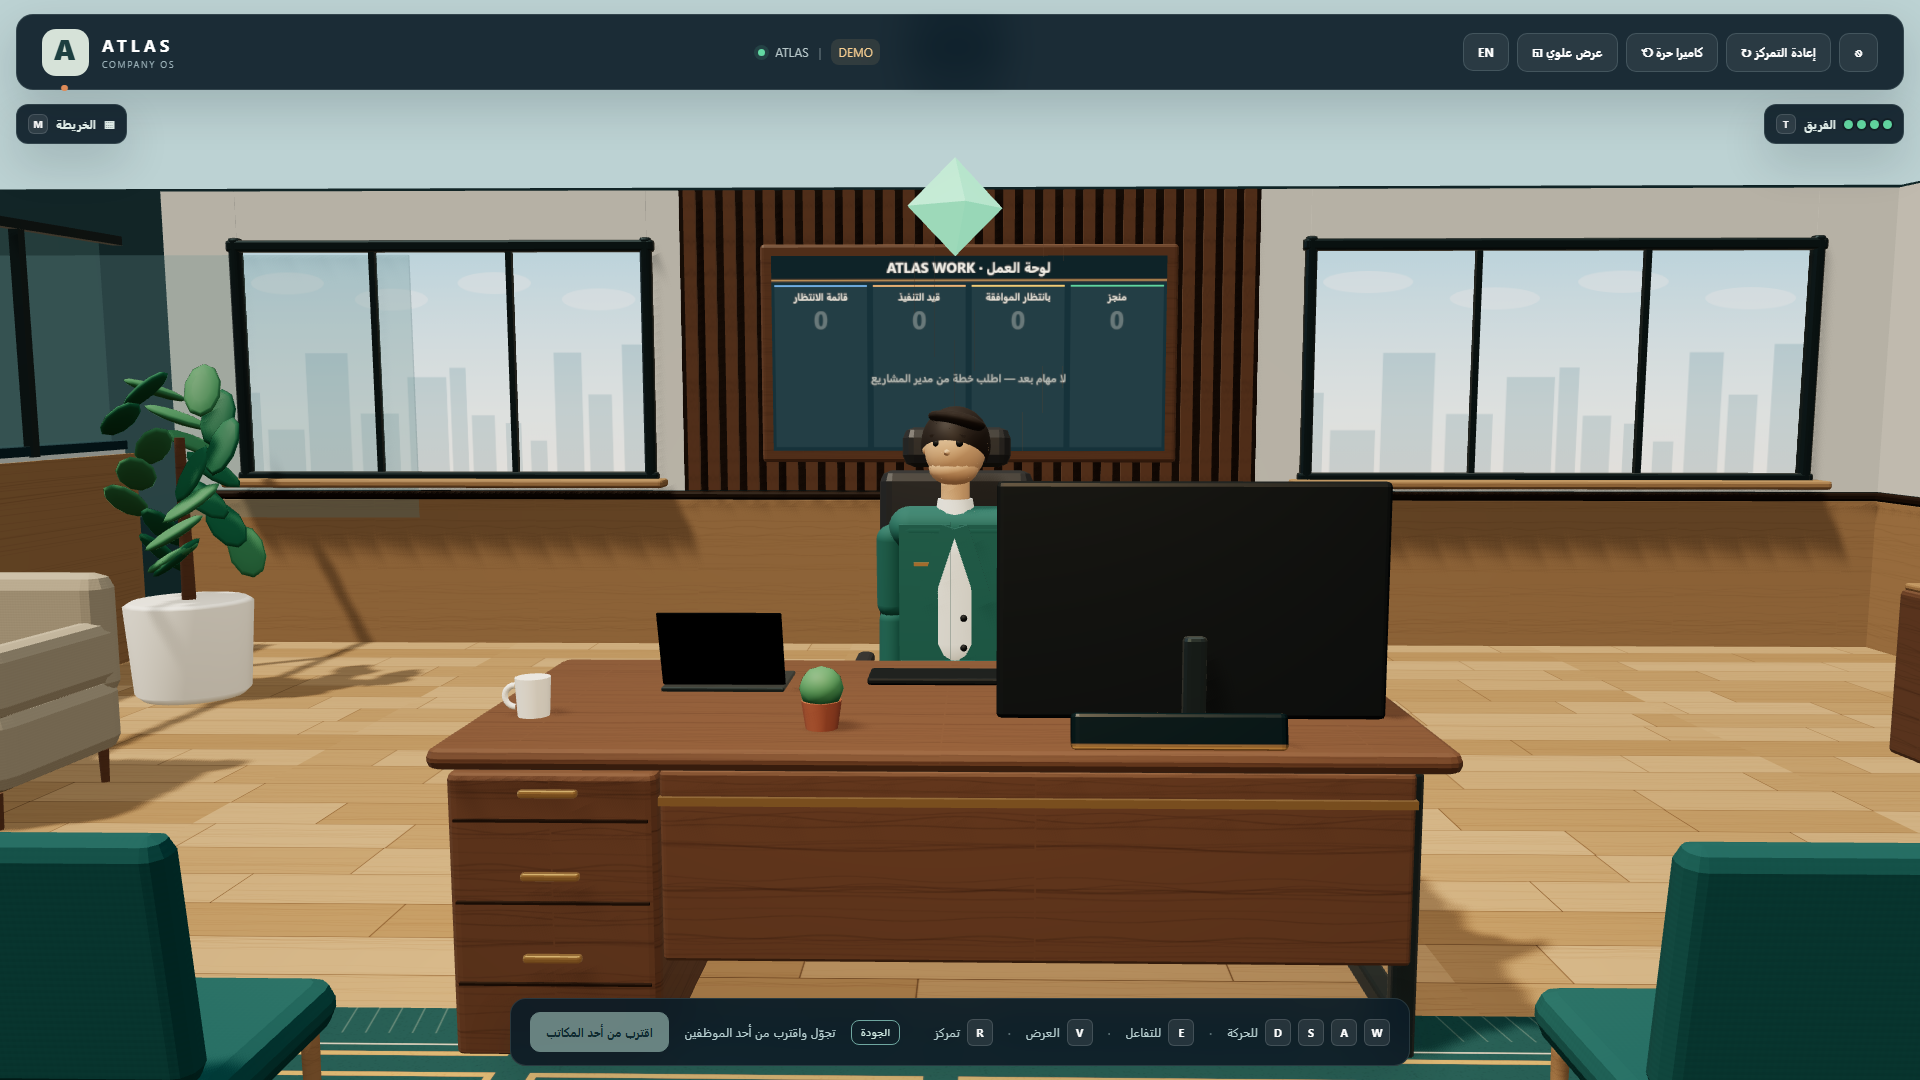
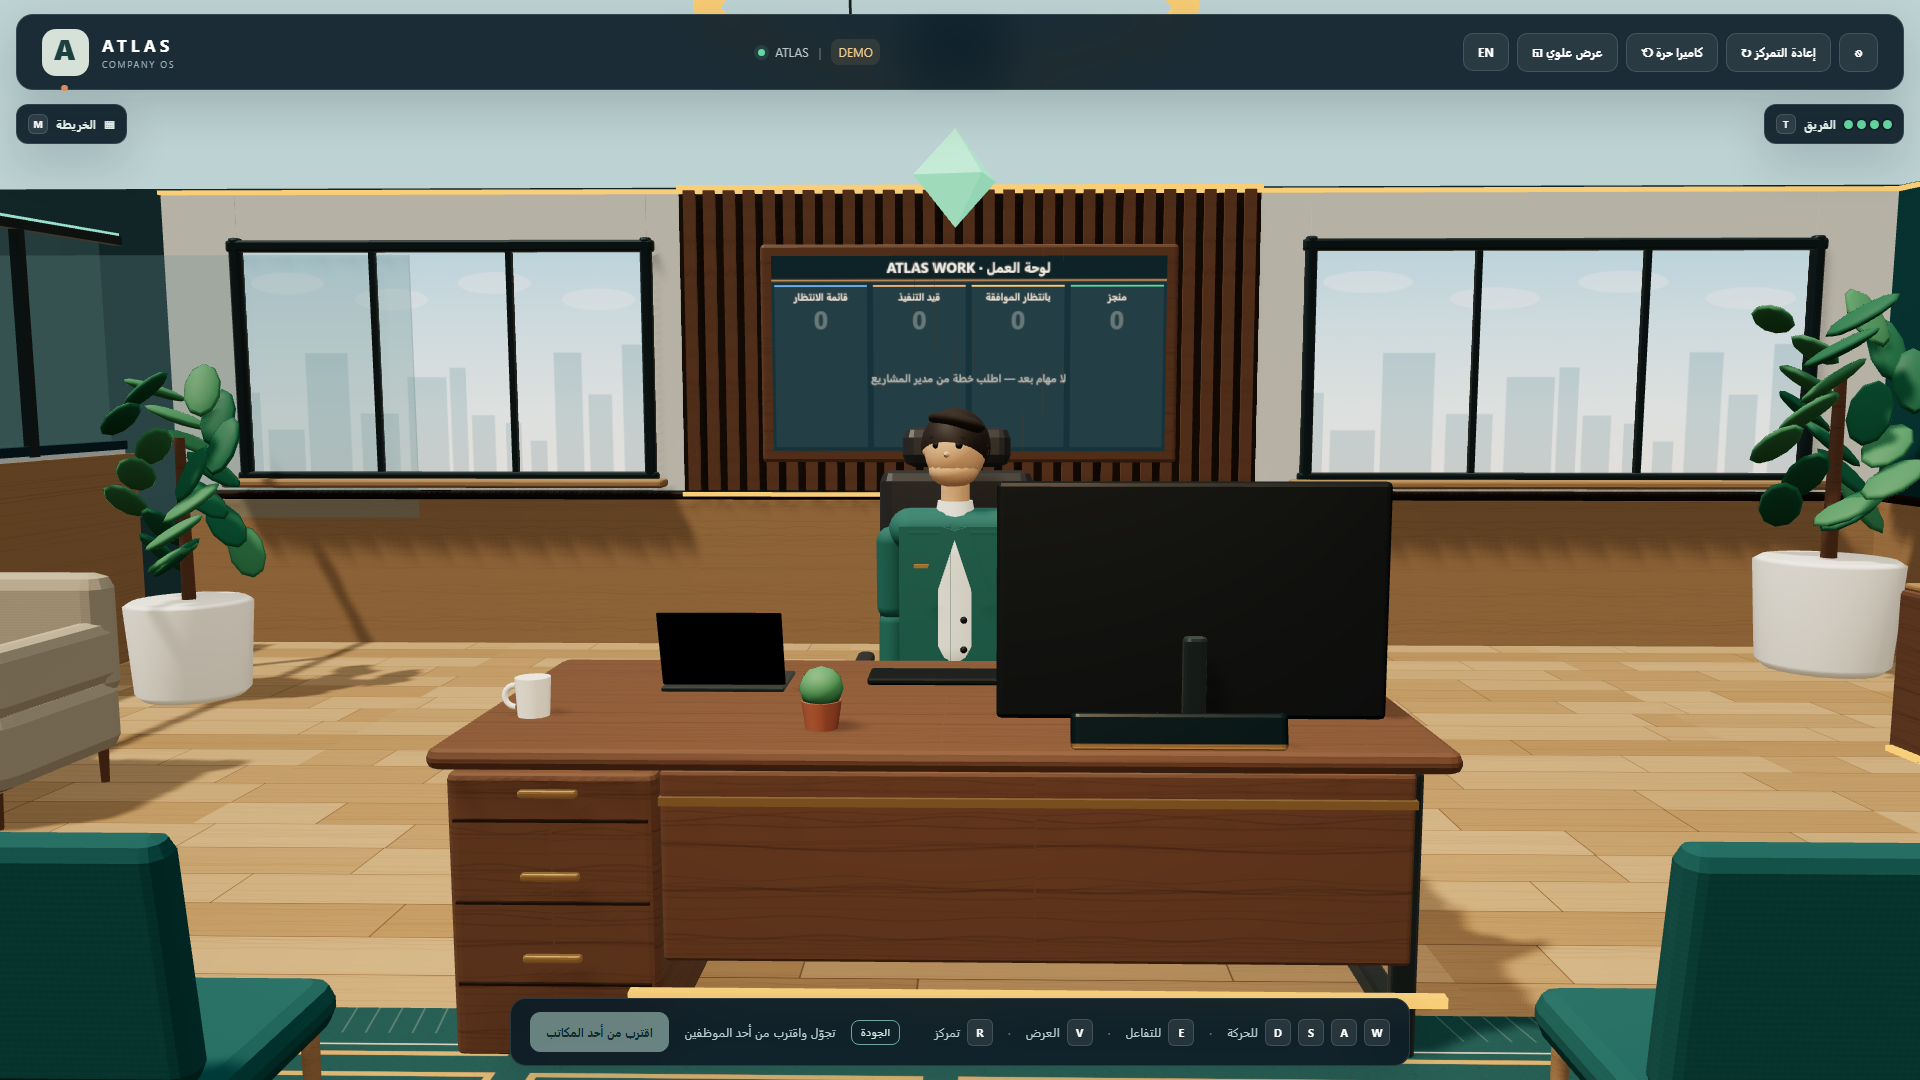
COS-109: add the five concept renders and move the slice toward concepts 01/04
- docs/design/concepts/: the CEO's five ATLAS-Visual-Blueprint renders (target
  art, not screenshots) with a README
- Warm amber LED cove strips, mint partition accents, ring pendant over the
  desk, teal accent wall, tall corner plant with its own collider (all emissive:
  no extra per-pixel lights)
- REPORT: concept comparison with an honest gap list; captures and headless
  FPS re-measured

diff --git a/public/js/world/office-pm.js b/public/js/world/office-pm.js
@@ -140,6 +140,10 @@ export function buildPmOffice(THREE, {envMap = null} = {}) {
     walnut: std('walnut', {color: tex.walnut ? '#ffffff' : PAL.walnut, map: tex.walnut, roughness: .45, envMapIntensity: .55}),
     oak: std('oak', {color: tex.oak ? '#ffffff' : PAL.oak, map: tex.oak, roughness: .55}),
     cream: std('cream', {color: PAL.cream, roughness: .9, envMapIntensity: .25}),
+    teal: std('teal', {color: PAL.teal, roughness: .85}),
+    // concepts 01/04: warm LED cove strips and mint accents. Emissive only: no per-pixel light cost.
+    led: mat('led', () => new THREE.MeshStandardMaterial({color: '#7a4a18', emissive: '#ff9a3c', emissiveIntensity: 1.5, roughness: .6})),
+    ledMint: mat('ledMint', () => new THREE.MeshStandardMaterial({color: '#1e5557', emissive: '#3fcfa9', emissiveIntensity: 1.3, roughness: .6})),
     trim: std('trim', {color: '#3a2a1e', roughness: .5}),
     metal: std('metal', {color: PAL.metal, roughness: .32, metalness: .75}),
     brass: std('brass', {color: PAL.brass, roughness: .28, metalness: .9, envMapIntensity: 1}),
@@ -219,7 +223,7 @@ export function buildPmOffice(THREE, {envMap = null} = {}) {
   const ex = x1 - .02;
   add(staticRoot, rbox(.04, .92, D, .01), M.oak, ex, .46, cz, {cast: false});
   add(staticRoot, rbox(.07, .05, D, .015), M.trim, ex - .01, .94, cz);
-  add(staticRoot, box(.03, 1.81, D), M.cream, ex, 1.875, cz, {cast: false});
+  add(staticRoot, box(.03, 1.81, D), M.teal, ex, 1.875, cz, {cast: false}); // teal accent wall (concepts 01/04)
   // glass partitions (west and south): slim mullions, top rail, and an oak skin on the lower wall
   for (const zz of [-15.2, -13.2, -11.2, -9.2]) add(staticRoot, box(.05, 1.2, .05), M.glassFrame, 12.1, 1.84, zz);
   add(staticRoot, box(.06, .05, 9), M.glassFrame, 12.1, 2.44, -11.55);
@@ -327,8 +331,8 @@ export function buildPmOffice(THREE, {envMap = null} = {}) {
   add(staticRoot, cyl(.2, .2, .04, 32), M.trim, ex - .04, 2.25, -9.2, {rz: Math.PI / 2}); add(staticRoot, cyl(.18, .18, .045, 32), M.ceramic, ex - .05, 2.25, -9.2, {rz: Math.PI / 2});
 
   // ---- plant (collider pm-plant at 13, -15) ------------------------------------------------------------------
-  {
-    const g = piece(13, -15);
+  const leafy = (x, z, id, scale = 1) => {
+    const g = piece(x, z); g.scale.setScalar(scale);
     const pot = new THREE.LatheGeometry([[0, 0], [.22, 0], [.27, .05], [.3, .5], [.27, .52], [0, .52]].map(([a, b]) => new THREE.Vector2(a, b)), 24);
     add(g, pot, M.ceramic, 0, 0, 0); add(g, cyl(.27, .27, .02, 24), M.trim, 0, .5, 0);
     add(g, cyl(.025, .035, .9, 8), M.walnut, 0, .9, 0);
@@ -337,8 +341,10 @@ export function buildPmOffice(THREE, {envMap = null} = {}) {
       const a = i * 2.4, y = .75 + (i % 7) * .14, r = .12 + (i % 3) * .08;
       add(g, leafGeo, i % 2 ? M.leaf : M.leaf2, Math.sin(a) * r, y, Math.cos(a) * r, {ry: a, rz: .5 + (i % 4) * .15, rx: .2});
     }
-    footprint('pm-plant', g);
-  }
+    footprint(id, g);
+  };
+  leafy(13, -15, 'pm-plant');
+  leafy(21.85, -15.85, 'pm-plant-ne', 1.25); // tall corner plant (concepts show generous greenery)
 
   // ---- arc floor lamp (collider pm-lamp at 13.4, -8.4) ---------------------------------------------------------
   {
@@ -349,6 +355,18 @@ export function buildPmOffice(THREE, {envMap = null} = {}) {
     add(g, new THREE.ConeGeometry(.2, .2, 24, 1, true), M.lampGlow, -.35, 1.72, .25);
     footprint('pm-lamp', g);
   }
+
+  // ---- LED cove strips (concepts 01/04): wall tops, slat wall frame, partition rails, desk + credenza underglow --------
+  const strip = (w, d, x, y, z, m = M.led) => add(staticRoot, box(w, .025, d), m, x, y, z, {cast: false, receive: false});
+  strip(W, .04, cx, 2.77, nz + .03); strip(.04, D, ex - .03, 2.77, cz);
+  strip(3.5, .03, 17, .95, nz + .06); strip(3.5, .03, 17, 2.79, nz + .06);
+  for (const [xa, xb] of [[12, 16.1], [17.9, 22]]) strip(xb - xa, .03, (xa + xb) / 2, 2.47, -7.1, M.ledMint);
+  strip(.03, 9, 12.1, 2.47, -11.55, M.ledMint);
+  strip(1.9, .03, 17.22, .2, -11.04);           // desk modesty-panel underglow (visitor side)
+  strip(.03, 2.3, 21.03, .05, -12.8);           // credenza toe-kick glow
+  // ring pendant light over the desk
+  add(staticRoot, new THREE.TorusGeometry(.6, .035, 10, 48), M.led, 17, 2.55, -11.6, {rx: Math.PI / 2, cast: false});
+  for (const a of [0, 2.1, 4.2]) add(staticRoot, cyl(.004, .004, .3, 4), M.metal, 17 + Math.cos(a) * .6, 2.72, -11.6 + Math.sin(a) * .6, {cast: false});
 
   // ---- rug under the visitor area -------------------------------------------------------------------------
   add(staticRoot, rbox(3.8, .012, 2.6, .004), M.rug, 17, .016, -10.05, {cast: false});

diff --git a/public/js/world/world-data.js b/public/js/world/world-data.js
@@ -188,6 +188,7 @@ export function buildWorld() {
   // COS-109 lounge corner: two armchairs facing each other across a low table
   chair(13.2, -13.1, 0); chair(13.2, -10.5, Math.PI); cylP(13.2, .38, -11.8, .34, .06, COLORS.wood, 'wood'); cylP(13.2, .18, -11.8, .05, .34, COLORS.steel, 'metal');
   solid('pm-lounge-chair-n', 13.2, -13.1, .8, .8); solid('pm-lounge-chair-s', 13.2, -10.5, .8, .8); solid('pm-lounge-table', 13.2, -11.8, .72, .72);
+  solid('pm-plant-ne', 21.85, -15.85, .7, .7); cylP(21.85, .32, -15.85, .32, .64, '#8d6f56'); sphP(21.85, 1.3, -15.85, .5, COLORS.plant, 'plant');
   artZone = null;
 
   // ---- Developer workstations (open plan, low partitions)

diff --git a/docs/cos-109/REPORT.md b/docs/cos-109/REPORT.md
@@ -16,7 +16,7 @@ Nothing else in the office was restyled: per the blueprint, other departments wa
 | Lighting | global sun + sky | + warm spotlight over the desk, emissive lamp shades, a small in-engine reflection environment on metal / brass / ceramic / leather / walnut |
 
 All geometry and textures are original and procedural (no downloaded assets, no new dependencies). Static meshes
-are merged per material: the whole room is **31 meshes, ~18.8k triangles, 28 materials**; the manager is ~6.9k
+are merged per material: the whole room is merged per material (see the unit-tested budget: ≤ 40 meshes, < 120k triangles); the manager is ~6.9k
 triangles.
 
 ### What did NOT change
@@ -27,11 +27,23 @@ triangles.
 - **Status honesty:** the board shows only real counts; the manager's pose still comes from `presence.js`.
 - `?art=0` turns the slice off (A/B review and low-end GPUs).
 
-## Concept images
-The five ATLAS-Visual-Blueprint concept renders (`01`–`05`) were **not found on this computer** (searched Desktop,
-Downloads, Documents). They are not in the repo, so `docs/design/concepts/` was not created. The slice was built
-against the written blueprint (`docs/design/ATLAS-VISUAL-BLUEPRINT.md` on PR #13) and the palette/tokens of
-`ATLAS-REFERENCE-SHEET.svg`. Comparison with concepts 01 and 04 is still open.
+## Comparison with concepts 01 and 04
+The CEO supplied the five concept renders on 2026-11-22; they are in [docs/design/concepts/](../design/concepts/README.md).
+After seeing them, this slice gained warm amber LED cove strips (wall tops, slat-wall frame, desk and credenza
+underglow), mint accent strips on the glass partitions, a ring pendant over the desk, a teal accent wall and a
+tall corner plant (with its own collider). All are emissive, so they add no per-pixel lights.
+
+**Honest gap list (still far from the concepts):**
+| Concept shows | Slice today |
+|---|---|
+| Warm evening mood, ceilings with recessed and ring lights, light pooling on floors | Daylight office with no ceiling (the overview camera needs to see in); warm light only from the desk spot and emissive strips |
+| Stylised but detailed characters (faces, hair, clothing folds, expressions) | Procedural primitives: readable but toy-like; detail would need a modelled, licensed or original character asset |
+| Polished stone and carpet with reflections | Matte oak texture; no screen-space reflections (too costly for this budget) |
+| Dense props (dual monitors with content, headphones, mugs, pen holders) | Fewer props; monitors show only real status, never invented code |
+| Neighbouring rooms at the same quality | Only this office is upgraded |
+
+Closing the first two gaps is a bigger step (baked lighting / ceiling per view, and character modelling) and should be
+decided by the CEO after reviewing this slice.
 
 ## Matched captures
 `node scripts/capture-cos109.mjs <label>` — throwaway DEMO server, fresh database (0 tasks), same player positions
@@ -53,12 +65,12 @@ Headless Chromium with **software WebGL (SwiftShader)**, same machine, same pose
 
 | Shot | 1280×720 before → after | 1920×1080 before → after |
 |---|---|---|
-| Follow | 15.2 → 8.3 | 8.2 → 3.7 |
-| Overview | 19.0 → 12.5 | 11.0 → 6.3 |
-| Eye level, doorway | 16.8 → 5.2 | 9.0 → 3.1 |
-| Eye level, diagonal | 15.8 → 5.8 | 8.4 → 3.3 |
+| Follow | 15.2 → 6.7 | 8.2 → 3.2 |
+| Overview | 19.0 → 7.9 | 11.0 → 5.1 |
+| Eye level, doorway | 16.8 → 4.4 | 9.0 → 2.7 |
+| Eye level, diagonal | 15.8 → 5.0 | 8.4 → 3.0 |
 
-This is a **real regression on software rendering**: the slice roughly halves the headless frame rate. Profiling
+This is a **real regression on software rendering**: the slice roughly halves the headless frame rate (more in the eye-level views). Profiling
 by toggling features showed the cost is pixel shading of the room's large lit surfaces plus the spotlight and
 reflections (each ~1–4 fps); geometry is small. Two mitigations are already in (one light instead of three,
 reflections only on shiny materials). **A real-GPU figure was not obtained:** the automated Chrome window was
@@ -78,7 +90,7 @@ and measure on the CEO's own machine (`?art=0` vs default).
 - Only the PM office is upgraded; neighbouring rooms keep the block-out look, so the contrast is visible from the
   overview.
 - The board counts tasks but does not list task titles (that is COS-110B, the in-game work board).
-- No concept-image comparison yet (images not available locally).
+- Large visual gap to the concept renders remains (see the comparison above).
 
 ## CEO decision requested
 Approve the look of this slice (or list changes) before the same treatment is applied to other departments.

diff --git a/docs/BLOCKERS.md b/docs/BLOCKERS.md
@@ -13,10 +13,10 @@
 ## Known limitations
 
 - **COS-109 slice performance.** In headless software WebGL the PM office art slice roughly halves the frame rate
-  (e.g. 15.2 → 8.3 fps at 1280×720, follow camera). A real-GPU number has not been measured. `?art=0` disables the
+  (e.g. 15.2 → 6.7 fps at 1280×720, follow camera). A real-GPU number has not been measured. `?art=0` disables the
   slice. Planned fix after CEO approval of the look: baked lighting. Details: [cos-109/REPORT.md](cos-109/REPORT.md).
-- **COS-109 concept images unavailable.** The five ATLAS-Visual-Blueprint renders were not found locally and are
-  not in the repo, so the slice was not compared with concepts 01 and 04.
+- **COS-109 visual gap.** The concept renders (now in docs/design/concepts/) show evening lighting, ceilings and
+  detailed characters that the procedural slice does not match yet. See cos-109/REPORT.md.
 - **Sandbox network is not restricted.** Node's permission model limits sandboxed test processes to the
   sandbox directory (fs) and blocks child processes, but not the network. Mitigation: secrets are scrubbed
   from the child environment. A container with `--network=none` is the proper fix (roadmap).

diff --git a/docs/design/concepts/README.md b/docs/design/concepts/README.md
@@ -1,0 +1,15 @@
+# ATLAS concept renders (target art)
+
+Five original 16:9 concept renders from the ATLAS-Visual-Blueprint hand-off pack, added by the CEO on 2026-11-22.
+They are **visual targets, not screenshots of implemented features**. The game does not look like this yet; see the
+gap list in [../../cos-109/REPORT.md](../../cos-109/REPORT.md#comparison-with-concepts-01-and-04).
+
+| File | Shows |
+|---|---|
+| `01-third-person-interaction.jpg` | CEO close-up with an employee; Talk / Assign Task options |
+| `02-reception-visitors.jpg` | Lobby, receptionist, identified visitors, wayfinding |
+| `03-in-world-workboard.jpg` | In-game task board and employee dialogue (target for COS-110B) |
+| `04-third-person-hq-walk.jpg` | Follow-behind camera, aisles, workplace atmosphere (target for COS-110A) |
+| `05-isometric-company-map.jpg` | Overhead strategic view with distinct departments |
+
+These images are in a **public** repository. They contain no personal data or credentials.
